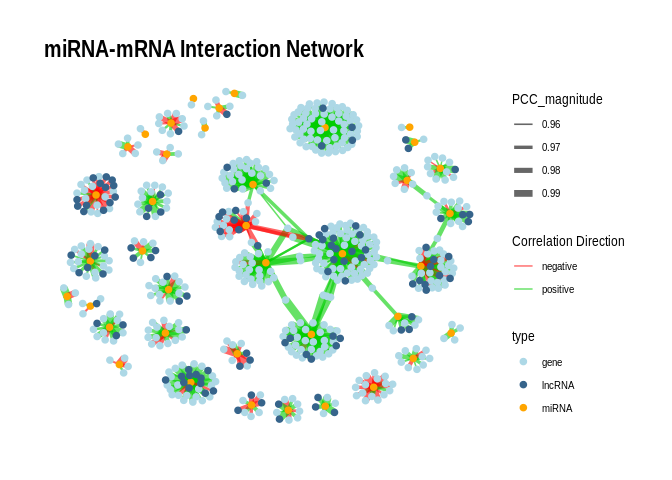
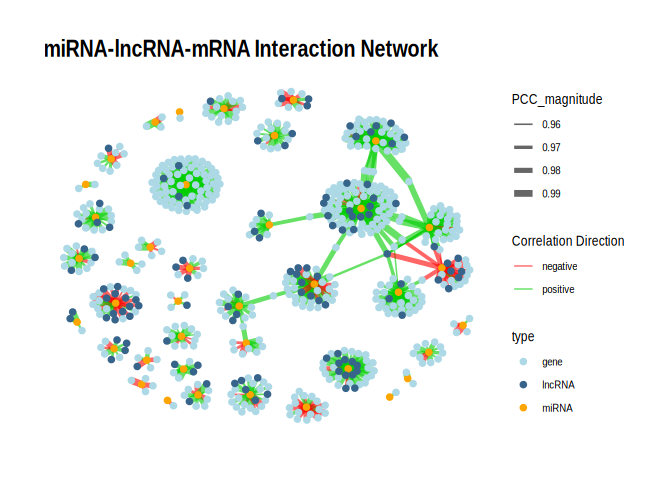
rerun to account for updated lncRNA analyses

diff --git a/E-Peve/code/31-Peve-miRNA-mRNA-lncRNA-network.md b/E-Peve/code/31-Peve-miRNA-mRNA-lncRNA-network.md
@@ -13,6 +13,9 @@ Kathleen Durkin
 - <a href="#6-plotting-with-igraph" id="toc-6-plotting-with-igraph">6
   Plotting with igraph</a>
 
+Reran 10/09/2025 to incorporate changes due to updated lncRNA counts
+matrix
+
 ``` r
 library(dplyr)
 ```
@@ -316,7 +319,7 @@ edges_pval_0.05 <- edges %>% filter(p_value < 0.05)
 nrow(edges_pval_0.05)
 ```
 
-    ## [1] 1385
+    ## [1] 1442
 
 Nodes:
 
@@ -339,7 +342,7 @@ nodes_pval_0.05 <- nodes_pval_0.05 %>%
 nrow(nodes_pval_0.05)
 ```
 
-    ## [1] 1240
+    ## [1] 1293
 
 # 3 pval \< 0.01
 
@@ -350,7 +353,7 @@ edges_pval_0.01 <- edges %>% filter(p_value < 0.01)
 nrow(edges_pval_0.01)
 ```
 
-    ## [1] 456
+    ## [1] 455
 
 Nodes:
 
@@ -373,7 +376,7 @@ nodes_pval_0.01 <- nodes_pval_0.01 %>%
 nrow(nodes_pval_0.01)
 ```
 
-    ## [1] 447
+    ## [1] 444
 
 # 4 Save
 
@@ -430,7 +433,7 @@ p <- ggraph(g_tbl, layout = "fr") +
   ) +
 
   theme_graph() +
-  labs(title = "miRNA-mRNA Interaction Network")
+  labs(title = "miRNA-lncRNA-mRNA Interaction Network")
 
 print(p)
 ```

diff --git a/F-Ptuh/code/31-Ptuh-miRNA-lncRNA-network.md b/F-Ptuh/code/31-Ptuh-miRNA-lncRNA-network.md
@@ -13,6 +13,9 @@ Kathleen Durkin
 - <a href="#6-plotting-with-igraph" id="toc-6-plotting-with-igraph">6
   Plotting with igraph</a>
 
+Reran 10/09/2025 to incorporate changes due to updated lncRNA counts
+matrix
+
 ``` r
 library(dplyr)
 ```
@@ -323,7 +326,7 @@ edges_pval_0.05 <- edges %>% filter(p_value < 0.05)
 nrow(edges_pval_0.05)
 ```
 
-    ## [1] 1254
+    ## [1] 1466
 
 Nodes:
 
@@ -346,7 +349,7 @@ nodes_pval_0.05 <- nodes_pval_0.05 %>%
 nrow(nodes_pval_0.05)
 ```
 
-    ## [1] 1132
+    ## [1] 1266
 
 # 3 pval \< 0.01
 
@@ -357,7 +360,7 @@ edges_pval_0.01 <- edges %>% filter(p_value < 0.01)
 nrow(edges_pval_0.01)
 ```
 
-    ## [1] 230
+    ## [1] 270
 
 Nodes:
 
@@ -380,7 +383,7 @@ nodes_pval_0.01 <- nodes_pval_0.01 %>%
 nrow(nodes_pval_0.01)
 ```
 
-    ## [1] 246
+    ## [1] 278
 
 # 4 Save
 
@@ -437,7 +440,7 @@ p <- ggraph(g_tbl, layout = "fr") +
   ) +
 
   theme_graph() +
-  labs(title = "miRNA-mRNA Interaction Network")
+  labs(title = "miRNA-lncRNA-mRNA Interaction Network")
 
 print(p)
 ```

diff --git a/D-Apul/code/33-Apul-miRNA-mRNA-lncRNA-network.md b/D-Apul/code/33-Apul-miRNA-mRNA-lncRNA-network.md
@@ -417,7 +417,7 @@ p <- ggraph(g_tbl, layout = "fr") +
   ) +
 
   theme_graph() +
-  labs(title = "miRNA-mRNA Interaction Network")
+  labs(title = "miRNA-lncRNA-mRNA Interaction Network")
 
 print(p)
 ```
